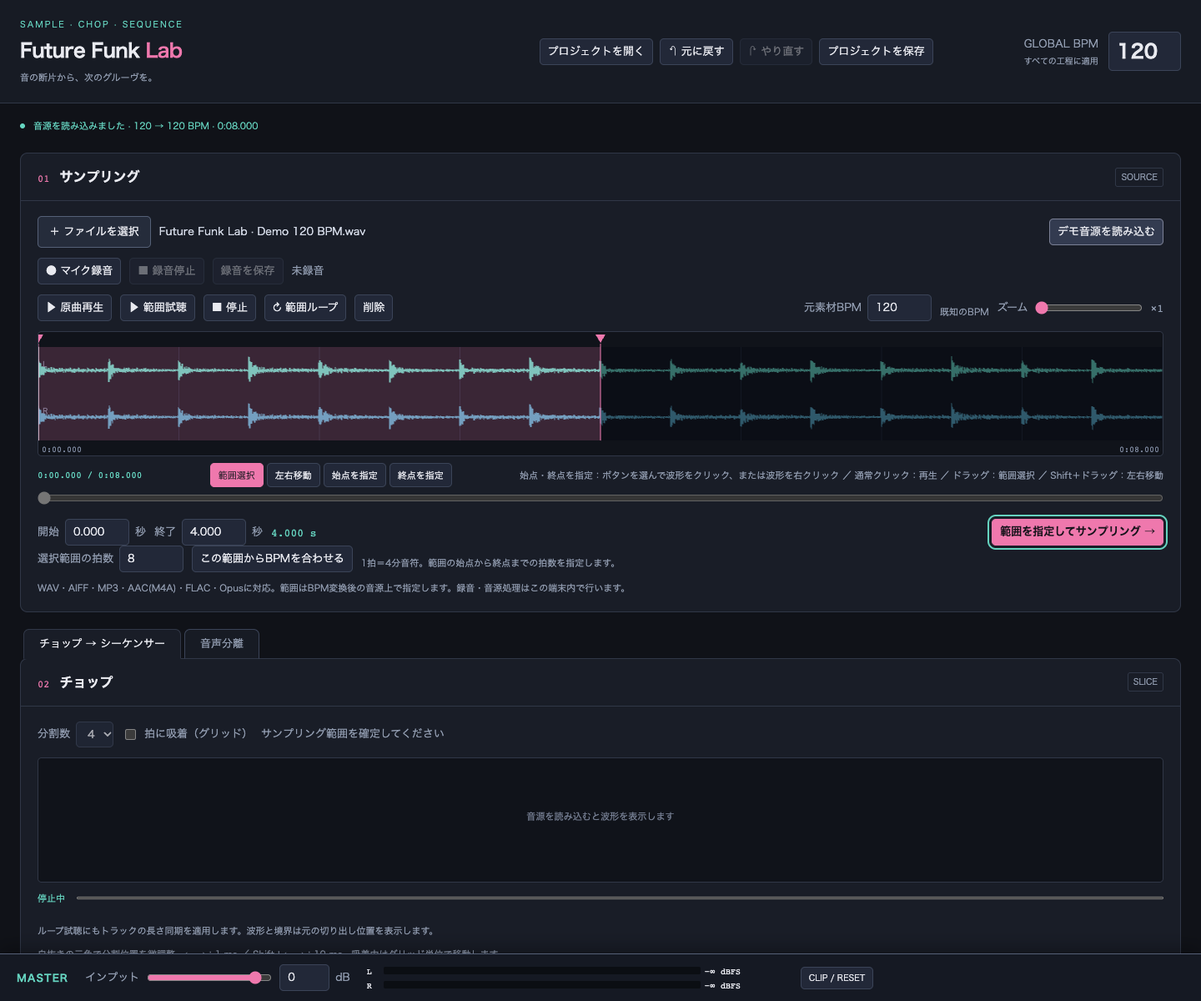
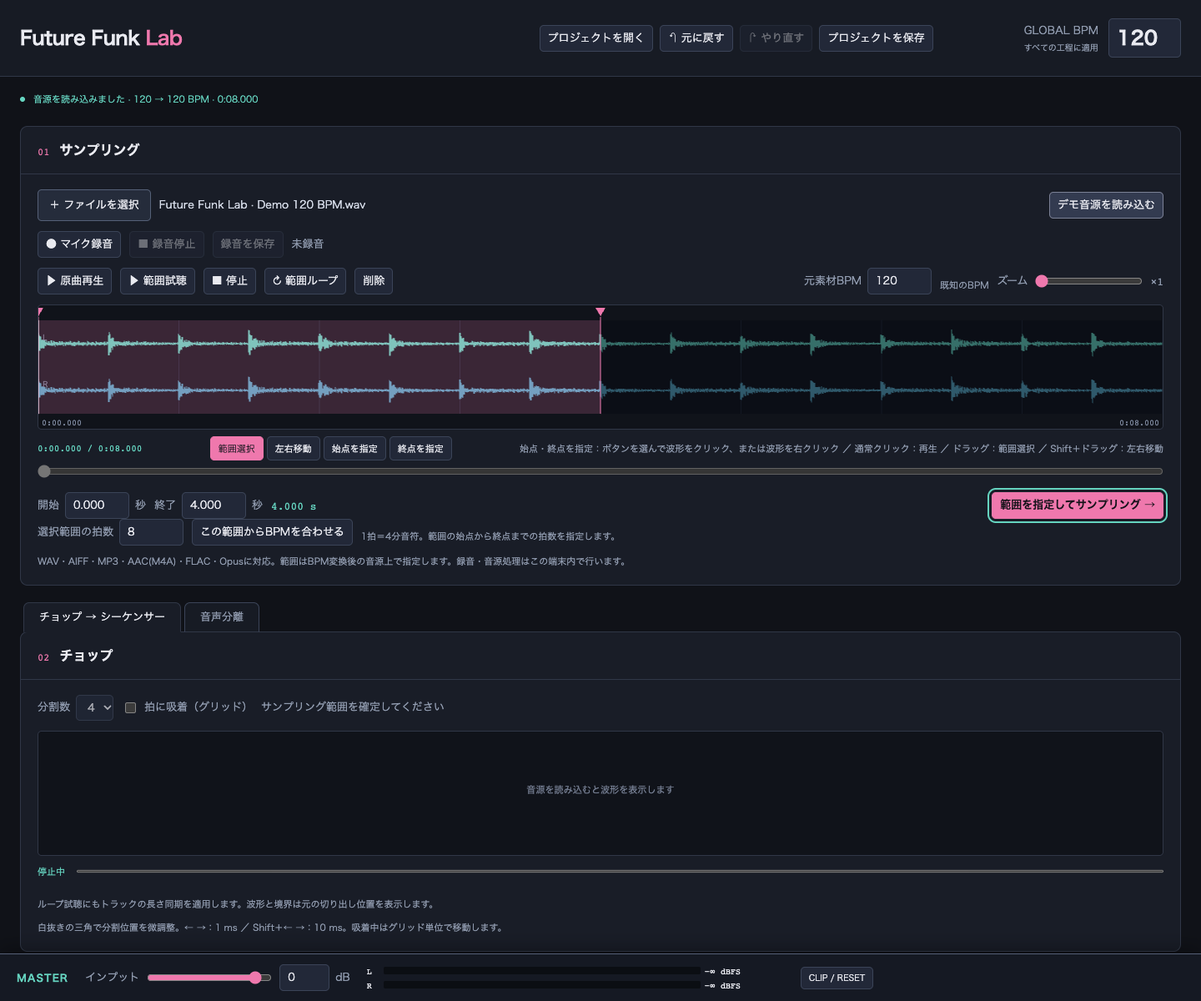
Remove text that is not needed to operate the app
Drops the tagline, the English eyebrow, the SOURCE/SLICE/MID + FILTER
and optional-feature badges, the VOCAL/BASS sublabels and the footer
description. The footer keeps the version and the source and license
links.

diff --git a/src/style.css b/src/style.css
@@ -1,4 +1,4 @@
-:root{color-scheme:dark;--bg:#101218;--panel:#191d27;--line:#303747;--text:#e9eaf0;--muted:#929db1;--pink:#ef78ad;--mint:#65d4c0;font-family:Inter,'Hiragino Kaku Gothic ProN','Noto Sans JP',system-ui,sans-serif;font-size:13px}*{box-sizing:border-box}body{margin:0;background:var(--bg);color:var(--text)}button,input,select{font:inherit}button,select,input[type=number],input[type=text]{border:1px solid #3b4458;border-radius:5px;background:#222838;color:var(--text);min-height:31px;padding:5px 9px}button{cursor:pointer;transition:background .12s,border-color .12s;white-space:nowrap}button:hover{background:#333b50;border-color:#7b8196}button:disabled{opacity:.4;cursor:default}button:focus-visible,input:focus-visible,select:focus-visible,canvas:focus-visible{outline:2px solid var(--mint);outline-offset:3px}button.active,button[aria-pressed=true]{color:#13151c;background:var(--pink);border-color:var(--pink)}button.primary{background:var(--pink);border-color:var(--pink);color:#17131b;font-weight:700}.secondary{color:var(--mint)}input[type=number]{width:77px;font-variant-numeric:tabular-nums}input[type=range]{accent-color:var(--pink);height:22px;min-width:50px;vertical-align:middle}input[type=checkbox]{accent-color:var(--pink)}label{display:inline-flex;align-items:center;gap:7px;color:var(--muted)}output,.mono{font-family:ui-monospace,SFMono-Regular,monospace;font-variant-numeric:tabular-nums}header{border-bottom:1px solid var(--line);background:#171b24;padding:22px max(24px,calc((100vw - 1400px)/2));display:flex;align-items:center;justify-content:space-between;gap:24px;position:sticky;top:0;z-index:5}h1{font-size:23px;letter-spacing:-.6px;margin:0}h1 span{color:var(--pink)}.eyebrow{color:var(--mint);font-size:10px;letter-spacing:2px;margin-bottom:6px}.subtitle{color:var(--muted);font-size:11px;margin-top:6px}.tempo{display:flex;align-items:center;gap:12px}.tempo input{width:87px;font-size:23px;min-height:46px;font-weight:700}.tempo small{display:block;color:var(--muted);font-size:10px;margin-top:3px}main{max-width:1450px;margin:auto;padding:24px}.section{background:var(--panel);border:1px solid var(--line);border-radius:9px;margin-bottom:20px;overflow:hidden}.section-head{padding:16px 20px;border-bottom:1px solid var(--line);display:flex;justify-content:space-between;align-items:center;gap:12px}.section-title{display:flex;align-items:baseline;gap:12px}.section-title h2{font-size:16px;margin:0}.section-number{font-family:monospace;color:var(--pink);font-size:12px}.badge{color:var(--muted);font-size:10px;border:1px solid var(--line);border-radius:3px;padding:3px 6px}.section-body{padding:18px 20px}.row{display:flex;align-items:center;gap:10px;flex-wrap:wrap}.row+.row{margin-top:12px}.grow{flex:1}.muted{color:var(--muted)}.hint{font-size:11px;color:var(--muted);line-height:1.7;margin:10px 0 0}.filename{overflow:hidden;text-overflow:ellipsis;white-space:nowrap;max-width:400px;color:#d6dce9}canvas.wave{display:block;width:100%;height:150px;border:1px solid var(--line);border-radius:5px;touch-action:none;margin-top:12px}.wave.small{height:100px}.range-display{display:flex;justify-content:space-between;align-items:center;gap:12px;flex-wrap:wrap;margin-top:12px}.range-display output{color:var(--mint)}.scroll-range{width:100%;margin:2px 0}.parts{display:grid;grid-template-columns:1fr 1fr;gap:18px}.part{border:1px solid var(--line);border-radius:6px;padding:15px;min-width:0}.part h3{font-size:14px;margin:0 0 13px}.part h3 span{color:var(--mint);font-size:10px;margin-left:8px}.filter-row{display:grid;grid-template-columns:65px 85px 90px 1fr;align-items:center;gap:8px;margin-top:10px}.filter-row input[type=range]{width:100%}.filter-row input[type=number]{width:88px}.filter-row label{font-size:11px}.part-time{display:flex;justify-content:space-between;font-size:10px;color:var(--muted);margin-top:6px}.chop-pads{display:flex;gap:8px;margin-top:12px}.chop-pad{flex:1;padding:10px 6px;min-width:0}.chop-pad strong{display:block;color:var(--mint);font:18px monospace}.chop-pad.active strong{color:#17131b}.chop-pad small{display:block;font:10px monospace;margin:6px 0}.chop-pad span{font-size:11px}.sequence-tools{padding:16px 20px;border-bottom:1px solid var(--line)}.eq-settings{padding:12px 20px;background:#151923;border-bottom:1px solid var(--line);font-size:11px}.eq-settings input{width:77px}.step-buttons{display:inline-flex;gap:4px}.step-buttons button{min-width:36px}.table-scroll{overflow:auto}.sequencer{min-width:1100px}.seq-header,.track-row{display:grid;grid-template-columns:145px 430px minmax(450px,1fr);gap:0}.seq-header{color:var(--muted);font-size:10px;letter-spacing:1px;background:#151923}.seq-header>div{padding:10px 12px;border-right:1px solid var(--line)}.track-row{border-top:1px solid var(--line);min-height:114px}.track-row>div{padding:11px 12px;border-right:1px solid var(--line)}.track-label{display:flex;align-items:center;justify-content:space-between;gap:8px}.track-label strong{font:12px monospace;color:var(--mint)}.track-label span{font:10px monospace;color:var(--muted)}.track-row canvas{height:53px;width:100%;display:block;margin-top:8px;background:#10131a;border-radius:3px}.edit-line{display:flex;gap:6px;align-items:center;margin-bottom:7px}.edit-line button{min-height:25px;font-size:10px;padding:3px 6px}.edit-line select{min-height:25px;font-size:10px;padding:3px}.edit-line input[type=number]{width:58px;font-size:11px;min-height:25px;padding:3px}.edit-line label{font-size:10px;gap:4px}.edit-line input[type=range]{width:65px}.edit-line output{font-size:10px;min-width:33px}.eq-label{color:var(--muted);font-size:9px}.steps{display:grid;gap:3px;align-items:stretch;height:80px;margin:6px 0}.step{padding:0;min-width:0;border-radius:3px;border:1px solid #343d51;background:#242b3b;min-height:60px;position:relative;font-size:9px;color:#7e8ba1}.step span{position:absolute;bottom:5px;left:0;right:0}.step:nth-child(4n+1){border-left:2px solid #7e8ba1}.step.active{background:#e974aa;border-color:#e974aa;color:#43263a}.step.playhead{box-shadow:inset 0 0 0 2px #fff}.step.playhead:before{content:'';position:absolute;top:5px;left:50%;width:4px;height:4px;background:#fff;border-radius:50%}.empty{opacity:.4}.master{padding:18px 20px;display:flex;align-items:center;gap:22px;flex-wrap:wrap;background:#151923;border-top:1px solid var(--line)}.master strong{font-size:12px;color:var(--mint);letter-spacing:1px}.meters{flex:1;min-width:220px;max-width:500px;display:grid;grid-template-columns:15px 1fr 95px;gap:5px;align-items:center;font:10px monospace}.meter{height:9px;background:#0b0e13;position:relative;border-radius:2px;overflow:hidden}.meter-fill{height:100%;width:0;background:linear-gradient(90deg,#51bba7 0%,#b1d475 76%,#f2c969 88%,#ef78ad 100%)}.clip{font-size:10px;min-height:26px}.clip.clipped{background:#ff5a73;color:#101218}.status{max-width:1450px;margin:auto;padding:18px 24px 0;display:flex;gap:10px;align-items:center;color:var(--muted);font-size:11px}.status-dot{width:6px;height:6px;border-radius:50%;background:var(--mint)}#status.error{color:#ff91aa}#status.busy{color:var(--mint)}footer{padding:0 24px 24px;text-align:center;color:#758097;font-size:10px}.hidden{display:none!important}.file-label{cursor:pointer;border:1px solid #556077;background:#252c3b;padding:8px 13px;border-radius:5px;color:var(--text)}.recording{animation:pulse 1s infinite;color:#ff8497}@keyframes pulse{50%{opacity:.45}}@media(max-width:900px){header{padding:16px;position:static}main{padding:14px}.parts{grid-template-columns:1fr}.section-body{padding:14px}.section-title{gap:8px}.subtitle{max-width:220px}.filter-row{grid-template-columns:65px 80px 85px 1fr}.tempo{gap:6px}.tempo input{width:75px}h1{font-size:19px}.chop-pads{flex-wrap:wrap}.chop-pad{min-width:65px}.filename{max-width:200px}}@media(prefers-reduced-motion:reduce){*{animation:none!important;transition:none!important}}
+:root{color-scheme:dark;--bg:#101218;--panel:#191d27;--line:#303747;--text:#e9eaf0;--muted:#929db1;--pink:#ef78ad;--mint:#65d4c0;font-family:Inter,'Hiragino Kaku Gothic ProN','Noto Sans JP',system-ui,sans-serif;font-size:13px}*{box-sizing:border-box}body{margin:0;background:var(--bg);color:var(--text)}button,input,select{font:inherit}button,select,input[type=number],input[type=text]{border:1px solid #3b4458;border-radius:5px;background:#222838;color:var(--text);min-height:31px;padding:5px 9px}button{cursor:pointer;transition:background .12s,border-color .12s;white-space:nowrap}button:hover{background:#333b50;border-color:#7b8196}button:disabled{opacity:.4;cursor:default}button:focus-visible,input:focus-visible,select:focus-visible,canvas:focus-visible{outline:2px solid var(--mint);outline-offset:3px}button.active,button[aria-pressed=true]{color:#13151c;background:var(--pink);border-color:var(--pink)}button.primary{background:var(--pink);border-color:var(--pink);color:#17131b;font-weight:700}.secondary{color:var(--mint)}input[type=number]{width:77px;font-variant-numeric:tabular-nums}input[type=range]{accent-color:var(--pink);height:22px;min-width:50px;vertical-align:middle}input[type=checkbox]{accent-color:var(--pink)}label{display:inline-flex;align-items:center;gap:7px;color:var(--muted)}output,.mono{font-family:ui-monospace,SFMono-Regular,monospace;font-variant-numeric:tabular-nums}header{border-bottom:1px solid var(--line);background:#171b24;padding:22px max(24px,calc((100vw - 1400px)/2));display:flex;align-items:center;justify-content:space-between;gap:24px;position:sticky;top:0;z-index:5}h1{font-size:23px;letter-spacing:-.6px;margin:0}h1 span{color:var(--pink)}.tempo{display:flex;align-items:center;gap:12px}.tempo input{width:87px;font-size:23px;min-height:46px;font-weight:700}.tempo small{display:block;color:var(--muted);font-size:10px;margin-top:3px}main{max-width:1450px;margin:auto;padding:24px}.section{background:var(--panel);border:1px solid var(--line);border-radius:9px;margin-bottom:20px;overflow:hidden}.section-head{padding:16px 20px;border-bottom:1px solid var(--line);display:flex;justify-content:space-between;align-items:center;gap:12px}.section-title{display:flex;align-items:baseline;gap:12px}.section-title h2{font-size:16px;margin:0}.section-number{font-family:monospace;color:var(--pink);font-size:12px}.badge{color:var(--muted);font-size:10px;border:1px solid var(--line);border-radius:3px;padding:3px 6px}.section-body{padding:18px 20px}.row{display:flex;align-items:center;gap:10px;flex-wrap:wrap}.row+.row{margin-top:12px}.grow{flex:1}.muted{color:var(--muted)}.hint{font-size:11px;color:var(--muted);line-height:1.7;margin:10px 0 0}.filename{overflow:hidden;text-overflow:ellipsis;white-space:nowrap;max-width:400px;color:#d6dce9}canvas.wave{display:block;width:100%;height:150px;border:1px solid var(--line);border-radius:5px;touch-action:none;margin-top:12px}.wave.small{height:100px}.range-display{display:flex;justify-content:space-between;align-items:center;gap:12px;flex-wrap:wrap;margin-top:12px}.range-display output{color:var(--mint)}.scroll-range{width:100%;margin:2px 0}.parts{display:grid;grid-template-columns:1fr 1fr;gap:18px}.part{border:1px solid var(--line);border-radius:6px;padding:15px;min-width:0}.part h3{font-size:14px;margin:0 0 13px}.filter-row{display:grid;grid-template-columns:65px 85px 90px 1fr;align-items:center;gap:8px;margin-top:10px}.filter-row input[type=range]{width:100%}.filter-row input[type=number]{width:88px}.filter-row label{font-size:11px}.part-time{display:flex;justify-content:space-between;font-size:10px;color:var(--muted);margin-top:6px}.chop-pads{display:flex;gap:8px;margin-top:12px}.chop-pad{flex:1;padding:10px 6px;min-width:0}.chop-pad strong{display:block;color:var(--mint);font:18px monospace}.chop-pad.active strong{color:#17131b}.chop-pad small{display:block;font:10px monospace;margin:6px 0}.chop-pad span{font-size:11px}.sequence-tools{padding:16px 20px;border-bottom:1px solid var(--line)}.eq-settings{padding:12px 20px;background:#151923;border-bottom:1px solid var(--line);font-size:11px}.eq-settings input{width:77px}.step-buttons{display:inline-flex;gap:4px}.step-buttons button{min-width:36px}.table-scroll{overflow:auto}.sequencer{min-width:1100px}.seq-header,.track-row{display:grid;grid-template-columns:145px 430px minmax(450px,1fr);gap:0}.seq-header{color:var(--muted);font-size:10px;letter-spacing:1px;background:#151923}.seq-header>div{padding:10px 12px;border-right:1px solid var(--line)}.track-row{border-top:1px solid var(--line);min-height:114px}.track-row>div{padding:11px 12px;border-right:1px solid var(--line)}.track-label{display:flex;align-items:center;justify-content:space-between;gap:8px}.track-label strong{font:12px monospace;color:var(--mint)}.track-label span{font:10px monospace;color:var(--muted)}.track-row canvas{height:53px;width:100%;display:block;margin-top:8px;background:#10131a;border-radius:3px}.edit-line{display:flex;gap:6px;align-items:center;margin-bottom:7px}.edit-line button{min-height:25px;font-size:10px;padding:3px 6px}.edit-line select{min-height:25px;font-size:10px;padding:3px}.edit-line input[type=number]{width:58px;font-size:11px;min-height:25px;padding:3px}.edit-line label{font-size:10px;gap:4px}.edit-line input[type=range]{width:65px}.edit-line output{font-size:10px;min-width:33px}.eq-label{color:var(--muted);font-size:9px}.steps{display:grid;gap:3px;align-items:stretch;height:80px;margin:6px 0}.step{padding:0;min-width:0;border-radius:3px;border:1px solid #343d51;background:#242b3b;min-height:60px;position:relative;font-size:9px;color:#7e8ba1}.step span{position:absolute;bottom:5px;left:0;right:0}.step:nth-child(4n+1){border-left:2px solid #7e8ba1}.step.active{background:#e974aa;border-color:#e974aa;color:#43263a}.step.playhead{box-shadow:inset 0 0 0 2px #fff}.step.playhead:before{content:'';position:absolute;top:5px;left:50%;width:4px;height:4px;background:#fff;border-radius:50%}.empty{opacity:.4}.master{padding:18px 20px;display:flex;align-items:center;gap:22px;flex-wrap:wrap;background:#151923;border-top:1px solid var(--line)}.master strong{font-size:12px;color:var(--mint);letter-spacing:1px}.meters{flex:1;min-width:220px;max-width:500px;display:grid;grid-template-columns:15px 1fr 95px;gap:5px;align-items:center;font:10px monospace}.meter{height:9px;background:#0b0e13;position:relative;border-radius:2px;overflow:hidden}.meter-fill{height:100%;width:0;background:linear-gradient(90deg,#51bba7 0%,#b1d475 76%,#f2c969 88%,#ef78ad 100%)}.clip{font-size:10px;min-height:26px}.clip.clipped{background:#ff5a73;color:#101218}.status{max-width:1450px;margin:auto;padding:18px 24px 0;display:flex;gap:10px;align-items:center;color:var(--muted);font-size:11px}.status-dot{width:6px;height:6px;border-radius:50%;background:var(--mint)}#status.error{color:#ff91aa}#status.busy{color:var(--mint)}footer{padding:0 24px 24px;text-align:center;color:#758097;font-size:10px}.hidden{display:none!important}.file-label{cursor:pointer;border:1px solid #556077;background:#252c3b;padding:8px 13px;border-radius:5px;color:var(--text)}.recording{animation:pulse 1s infinite;color:#ff8497}@keyframes pulse{50%{opacity:.45}}@media(max-width:900px){header{padding:16px;position:static}main{padding:14px}.parts{grid-template-columns:1fr}.section-body{padding:14px}.section-title{gap:8px}.filter-row{grid-template-columns:65px 80px 85px 1fr}.tempo{gap:6px}.tempo input{width:75px}h1{font-size:19px}.chop-pads{flex-wrap:wrap}.chop-pad{min-width:65px}.filename{max-width:200px}}@media(prefers-reduced-motion:reduce){*{animation:none!important;transition:none!important}}
 
 .edit-line input[data-track-eq]{width:58px}
 

diff --git a/index.html b/index.html
@@ -1,14 +1,14 @@
 <!doctype html>
 <html lang="ja"><head><meta charset="UTF-8"><meta name="viewport" content="width=device-width, initial-scale=1"><title>Future Funk Lab — Sampler & Sequencer</title><meta name="description" content="音源を切り出し、チョップし、8トラックで組み立てるブラウザサンプラー。音源は端末内で処理します。"><style>/* APP_CSS */</style></head>
 <body>
-<header><div><div class="eyebrow">SAMPLE · CHOP · SEQUENCE</div><h1>Future Funk <span>Lab</span></h1><div class="subtitle">音の断片から、次のグルーヴを。</div></div><div class="header-tools"><div class="project-tools" role="group" aria-label="プロジェクト"><button id="project-open">プロジェクトを開く</button><input id="project-file" type="file" accept=".json,application/json,audio/*,.wav,.aif,.aiff,.mp3,.m4a,.aac,.flac,.ogg,.opus,.webm" multiple class="hidden"><button id="undo" disabled title="⌘Z / Ctrl+Z">↶ 元に戻す</button><button id="redo" disabled title="⇧⌘Z / Ctrl+Y">↷ やり直す</button><button id="project-save" data-needs-source title="⌘S / Ctrl+S">プロジェクトを保存</button><span id="project-dirty" class="dirty" aria-live="polite"></span></div><div class="tempo"><div><label for="global-bpm">GLOBAL BPM</label><small>すべての工程に適用</small></div><input id="global-bpm" type="number" min="30" max="300" step="0.001" value="120" aria-label="グローバルBPM"></div></div></header>
+<header><div><h1>Future Funk <span>Lab</span></h1></div><div class="header-tools"><div class="project-tools" role="group" aria-label="プロジェクト"><button id="project-open">プロジェクトを開く</button><input id="project-file" type="file" accept=".json,application/json,audio/*,.wav,.aif,.aiff,.mp3,.m4a,.aac,.flac,.ogg,.opus,.webm" multiple class="hidden"><button id="undo" disabled title="⌘Z / Ctrl+Z">↶ 元に戻す</button><button id="redo" disabled title="⇧⌘Z / Ctrl+Y">↷ やり直す</button><button id="project-save" data-needs-source title="⌘S / Ctrl+S">プロジェクトを保存</button><span id="project-dirty" class="dirty" aria-live="polite"></span></div><div class="tempo"><div><label for="global-bpm">GLOBAL BPM</label><small>すべての工程に適用</small></div><input id="global-bpm" type="number" min="30" max="300" step="0.001" value="120" aria-label="グローバルBPM"></div></div></header>
 <div class="status" role="status" aria-live="polite"><span class="status-dot"></span><span id="status">準備完了。音源を選択するか、デモ音源で始めてください。</span></div>
 <div id="autosave-banner" class="autosave-banner hidden" role="region" aria-label="自動保存の復元"><span id="autosave-text"></span><button id="autosave-restore" class="primary">復元する</button><button id="autosave-discard">破棄する</button></div>
 <div id="replace-confirm" class="autosave-banner hidden" role="alertdialog" aria-label="作業の置き換えの確認"><span>今の作業には未保存の変更があります。置き換えますか？</span><button id="replace-save" class="primary">保存してから置き換える</button><button id="replace-yes">置き換える</button><button id="replace-no">やめる</button></div>
 <div id="drop-overlay" class="drop-overlay hidden" aria-hidden="true"><div>ここで離すと読み込みます<small>曲 / プロジェクト（.json）</small></div></div>
 <div id="project-source" class="autosave-banner hidden" role="region" aria-label="元の曲の選択"><span id="project-source-text"></span><button id="project-source-pick" class="primary">曲を選ぶ</button><input id="project-source-file" type="file" accept="audio/*,.wav,.aif,.aiff,.mp3,.m4a,.aac,.flac,.ogg,.opus,.webm" class="hidden"><button id="project-source-cancel">やめる</button></div>
 <main>
-<section class="section" id="sampling"><div class="section-head"><div class="section-title"><span class="section-number">01</span><h2>サンプリング</h2></div><span class="badge">SOURCE</span></div><div class="section-body">
+<section class="section" id="sampling"><div class="section-head"><div class="section-title"><span class="section-number">01</span><h2>サンプリング</h2></div></div><div class="section-body">
 <div class="row"><label class="file-label" for="source-file">＋ ファイルを選択</label><input id="source-file" type="file" accept="audio/*,.wav,.aif,.aiff,.mp3,.m4a,.aac,.flac,.ogg,.opus,.webm" class="hidden"><span class="filename" id="source-name">音源が選択されていません</span><div class="grow"></div><button id="demo">デモ音源を読み込む</button></div>
 <div class="row"><button id="record">● マイク録音</button><button id="record-stop" disabled>■ 録音停止</button><button id="record-save" disabled>録音を保存</button><span id="record-name" class="muted">未録音</span></div>
 <div class="row"><button id="source-play" data-needs-source aria-pressed="false">▶ 原曲再生</button><button id="source-range-play" data-needs-source aria-pressed="false">▶ 範囲試聴</button><button id="source-stop" data-needs-source>■ 停止</button><button id="source-loop" aria-pressed="false">↻ 範囲ループ</button><button id="source-delete" data-needs-source>削除</button><div class="grow"></div><label>元素材BPM <input id="source-bpm" type="number" min="30" max="300" step="0.001" value="120"></label><span id="bpm-confidence" class="hint"></span><label>ズーム <input id="zoom" type="range" min="1" max="100" value="1"><output id="zoom-value">×1</output></label></div>
@@ -18,7 +18,7 @@
 </div></section>
 <div class="section-tabs" role="tablist" aria-label="作業"><button id="tab-chop" role="tab" aria-selected="true" aria-controls="panel-chop">チョップ → シーケンサー</button><button id="tab-separation" role="tab" aria-selected="false" aria-controls="panel-separation" tabindex="-1">音声分離</button></div>
 <div id="panel-chop" role="tabpanel" aria-labelledby="tab-chop">
-<section class="section" id="chop"><div class="section-head"><div class="section-title"><span class="section-number">02</span><h2>チョップ</h2></div><span class="badge">SLICE</span></div><div class="section-body"><div class="row"><label>分割数 <select id="chop-count"><option>2</option><option>3</option><option selected>4</option><option>5</option><option>6</option><option>7</option><option>8</option></select></label><label><input id="snap" type="checkbox">拍に吸着（グリッド）</label><span id="chop-info" class="muted">サンプリング範囲を確定してください</span></div><canvas id="chop-wave" class="wave" tabindex="0" aria-label="チョップ波形。内部マーカーをドラッグ、左右キーで1ms、Shift併用で10ms移動"></canvas><div class="chop-playback"><output id="chop-position" class="mono" aria-live="off">停止中</output><progress id="chop-progress" max="1" value="0" aria-label="チョップ試聴の区間内再生位置"></progress></div><div id="chop-pads" class="chop-pads"></div><p class="hint">ループ試聴にもトラックの長さ同期を適用します。波形と境界は元の切り出し位置を表示します。</p><p class="hint">白抜きの三角で分割位置を微調整。← →：1 ms ／ Shift＋← →：10 ms。吸着中はグリッド単位で移動します。</p></div></section>
+<section class="section" id="chop"><div class="section-head"><div class="section-title"><span class="section-number">02</span><h2>チョップ</h2></div></div><div class="section-body"><div class="row"><label>分割数 <select id="chop-count"><option>2</option><option>3</option><option selected>4</option><option>5</option><option>6</option><option>7</option><option>8</option></select></label><label><input id="snap" type="checkbox">拍に吸着（グリッド）</label><span id="chop-info" class="muted">サンプリング範囲を確定してください</span></div><canvas id="chop-wave" class="wave" tabindex="0" aria-label="チョップ波形。内部マーカーをドラッグ、左右キーで1ms、Shift併用で10ms移動"></canvas><div class="chop-playback"><output id="chop-position" class="mono" aria-live="off">停止中</output><progress id="chop-progress" max="1" value="0" aria-label="チョップ試聴の区間内再生位置"></progress></div><div id="chop-pads" class="chop-pads"></div><p class="hint">ループ試聴にもトラックの長さ同期を適用します。波形と境界は元の切り出し位置を表示します。</p><p class="hint">白抜きの三角で分割位置を微調整。← →：1 ms ／ Shift＋← →：10 ms。吸着中はグリッド単位で移動します。</p></div></section>
 <section class="section" id="sequence"><div class="section-head"><div class="section-title"><span class="section-number">03</span><h2>シーケンサー</h2></div><div class="row"><div class="view-toggle" role="group" aria-label="表示"><span class="muted">表示</span><button id="view-compact" aria-pressed="true">コンパクト</button><button id="view-detail" aria-pressed="false">詳細</button></div><span id="signature" class="badge">16/8</span></div></div>
 <div class="sequence-tools"><div class="row"><span class="mono"><span id="sequence-bpm">120</span> BPM</span><span id="pattern-length" class="muted mono">1ステップ 0.250 s / 1周 4.000 s</span><button id="seq-play" class="primary" data-needs-chop title="Space">▶ 再生</button><button id="seq-stop">■ 停止</button><button id="seq-rewind" aria-label="先頭へ戻る">⏮</button><button id="seq-loop" aria-pressed="true">↻ ループ</button><label title="選んでいるグリッドの裏のステップを遅らせます。50%でずれなし">スウィング <input id="swing" type="number" min="50" max="75" step="1" value="50" aria-label="スウィング %">%</label><output id="transport-time">0:00.000</output><div class="grow"></div><select id="export-target" aria-label="書き出す内容"><option value="mix">ミックス</option><option value="stems">トラック別</option></select><select id="export-channels" aria-label="書き出しチャンネル"><option value="2">ステレオ</option><option value="1">モノ</option></select><select id="export-format" aria-label="書き出し形式"><option value="wav">WAV</option><option value="mp3">MP3</option></select><button id="export" data-needs-chop>↓ 書き出し</button></div></div>
 <div class="eq-settings row"><span>EQ共通設定</span><label>LOW | MID <input id="eq-low" type="number" min="200" max="500" value="300">Hz</label><label>MID | HI <input id="eq-high" type="number" min="2000" max="4000" value="3000">Hz</label><label>勾配 <select id="eq-slope"><option value="6">−6 dB/oct</option><option value="12" selected>−12 dB/oct</option><option value="24">−24 dB/oct</option></select></label><div class="grow"></div><span>グリッド</span><div class="step-buttons" role="group" aria-label="グリッド"><button id="grid-8" aria-pressed="true">8分</button><button id="grid-16" aria-pressed="false">16分</button></div><span>ステップ数</span><div id="step-buttons" class="step-buttons"></div></div>
@@ -27,8 +27,8 @@
 </section>
 </div>
 <div id="panel-separation" role="tabpanel" aria-labelledby="tab-separation" class="hidden">
-<section class="section" id="separation"><div class="section-head"><div class="section-title"><h2>音声分離</h2><span class="badge">オプション機能</span></div><span class="muted">MID + FILTER</span></div><div class="section-body"><div class="parts" id="parts"></div><p class="hint">簡易分離：センター成分にフィルターをかけます。他の楽器も混ざります。分離音源は書き出し専用で、チョップには引き継ぎません。</p></div></section>
+<section class="section" id="separation"><div class="section-head"><div class="section-title"><h2>音声分離</h2></div></div><div class="section-body"><div class="parts" id="parts"></div><p class="hint">簡易分離：センター成分にフィルターをかけます。他の楽器も混ざります。分離音源は書き出し専用で、チョップには引き継ぎません。</p></div></section>
 </div>
 </main><div class="master" id="master-strip" role="region" aria-label="マスタートラック"><strong>MASTER</strong><label>インプット <input id="master" type="range" min="-60" max="6" step="0.5" value="0"><input id="master-number" type="text" value="0" aria-label="マスターゲイン dB" style="width:60px"><span>dB</span></label><div class="meters"><span>L</span><div class="meter"><div class="meter-fill" id="meter-l"></div></div><output id="peak-l">−∞ dBFS</output><span>R</span><div class="meter"><div class="meter-fill" id="meter-r"></div></div><output id="peak-r">−∞ dBFS</output></div><button id="clip-reset" class="clip">CLIP / RESET</button></div>
-<footer>Future Funk Lab /* APP_VERSION */ · 音源は外部に送信されません · 1ステップ＝8分または16分音符 · 書き出しはパターン1周分（ミックスまたはトラック別） · <a href="https://github.com/masa-san-jp/Future-Funk-Lab">ソース</a> · <a href="./THIRD_PARTY_NOTICES.md">ライセンス</a></footer>
+<footer>Future Funk Lab /* APP_VERSION */ · <a href="https://github.com/masa-san-jp/Future-Funk-Lab">ソース</a> · <a href="./THIRD_PARTY_NOTICES.md">ライセンス</a></footer>
 <script>/* APP_JS */</script></body></html>

diff --git a/src/app.js b/src/app.js
@@ -220,7 +220,7 @@ function updateChopPlayback(){
 }
 function stopChopPreview(){for(const key of [...engine.preview.keys()])if(key.startsWith('pad-'))engine.stopPreview(key);}
 function buildParts(){
-  $('parts').innerHTML=state.parts.map((p,i)=>`<article class="part"><h3>${p.name}<span>${p.key.toUpperCase()}</span></h3><div class="row"><button data-part-play="${i}" data-preview="part-${i}" aria-pressed="false">▶ 再生</button><button data-part-stop="${i}">■ 停止</button><div class="grow"></div><select id="part-format-${i}" aria-label="${p.name}の書き出し形式"><option value="wav">WAV</option><option value="mp3">MP3</option></select><button data-part-export="${i}">↓ 書き出し</button></div>${['hp','lp'].map(type=>`<div class="filter-row"><label><input type="checkbox" data-part="${i}" data-filter="${type}" data-param="on" ${p[type].on?'checked':''}>${type==='hp'?'HPF':'LPF'}</label><select data-part="${i}" data-filter="${type}" data-param="slope" aria-label="${p.name}${type}勾配">${[6,12,24].map(n=>`<option value="${n}" ${n===p[type].slope?'selected':''}>−${n} dB/oct</option>`).join('')}</select><input type="number" data-part="${i}" data-filter="${type}" data-param="freq" min="${type==='hp'?50:200}" max="${type==='hp'?2000:8000}" value="${p[type].freq}" aria-label="${p.name}${type}カットオフ Hz"><input type="range" data-part="${i}" data-filter="${type}" data-param="freq" min="${type==='hp'?50:200}" max="${type==='hp'?2000:8000}" value="${p[type].freq}" aria-label="${p.name}${type}周波数スライダー"></div>`).join('')}<canvas id="part-wave-${i}" class="wave small" tabindex="0" aria-label="${p.name}の波形。クリックでシーク"></canvas><div class="part-time"><span id="part-time-${i}">0:00.000 / 0:00.000</span><span>Hz · クリックでシーク</span></div><input id="part-seek-${i}" type="range" min="0" max="1" step="0.001" value="0" aria-label="${p.name}の再生位置" style="width:100%"></article>`).join('');
+  $('parts').innerHTML=state.parts.map((p,i)=>`<article class="part"><h3>${p.name}</h3><div class="row"><button data-part-play="${i}" data-preview="part-${i}" aria-pressed="false">▶ 再生</button><button data-part-stop="${i}">■ 停止</button><div class="grow"></div><select id="part-format-${i}" aria-label="${p.name}の書き出し形式"><option value="wav">WAV</option><option value="mp3">MP3</option></select><button data-part-export="${i}">↓ 書き出し</button></div>${['hp','lp'].map(type=>`<div class="filter-row"><label><input type="checkbox" data-part="${i}" data-filter="${type}" data-param="on" ${p[type].on?'checked':''}>${type==='hp'?'HPF':'LPF'}</label><select data-part="${i}" data-filter="${type}" data-param="slope" aria-label="${p.name}${type}勾配">${[6,12,24].map(n=>`<option value="${n}" ${n===p[type].slope?'selected':''}>−${n} dB/oct</option>`).join('')}</select><input type="number" data-part="${i}" data-filter="${type}" data-param="freq" min="${type==='hp'?50:200}" max="${type==='hp'?2000:8000}" value="${p[type].freq}" aria-label="${p.name}${type}カットオフ Hz"><input type="range" data-part="${i}" data-filter="${type}" data-param="freq" min="${type==='hp'?50:200}" max="${type==='hp'?2000:8000}" value="${p[type].freq}" aria-label="${p.name}${type}周波数スライダー"></div>`).join('')}<canvas id="part-wave-${i}" class="wave small" tabindex="0" aria-label="${p.name}の波形。クリックでシーク"></canvas><div class="part-time"><span id="part-time-${i}">0:00.000 / 0:00.000</span><span>Hz · クリックでシーク</span></div><input id="part-seek-${i}" type="range" min="0" max="1" step="0.001" value="0" aria-label="${p.name}の再生位置" style="width:100%"></article>`).join('');
   state.parts.forEach((_,i)=>{partWaves[i]=new Waveform($(`part-wave-${i}`),{onSeek:time=>seekPart(i,time)});bind(`part-seek-${i}`,'input',()=>seekPart(i,Number($(`part-seek-${i}`).value)*duration()));});
   document.querySelectorAll('[data-part-play]').forEach(b=>b.addEventListener('click',guarded(()=>playPart(Number(b.dataset.partPlay)))));
   document.querySelectorAll('[data-part-stop]').forEach(b=>b.addEventListener('click',()=>engine.stopPreview(`part-${b.dataset.partStop}`)));

diff --git a/docs/20261018-future-funk-lab-sampling-spec-draft.md b/docs/20261018-future-funk-lab-sampling-spec-draft.md
@@ -106,7 +106,7 @@
 
 ### 6.2 画面構成
 
-「音声分離」の見出し(横に「オプション機能」の表示)の下に、パートごとのブロックを置く。ブロックは次の順で構成する。
+「音声分離」の見出しの下に、（2026-10-29：見出し横の「オプション機能」の表示は外した）パートごとのブロックを置く。ブロックは次の順で構成する。
 
 | パート | 内容 |
 |---|---|
@@ -379,6 +379,7 @@
 | EQ | 3バンド。0〜-∞のカットのみ。クロスオーバー(LOW|MID 200〜500Hz、MID|HI 2000〜4000Hz)と勾配(-6/-12/-24)は全トラック共通 |
 | トラックの出力ボリューム | 初期値0 dB、-∞〜+6 dB |
 | マスターチャンネル | 全出力が流れる。インプットレベル(初期値0 dB、-∞〜+6 dB)とピークメーターを設ける |
+| 画面の表記（2026-10-29） | 操作に必要な表記だけを残す。キャッチコピー・英字の飾り見出し・SOURCE/SLICE/オプション機能/MID + FILTER/VOCAL/BASSの表示・フッターの説明文は外し、フッターは版・ソース・ライセンスだけにする |
 | 作業のタブ（2026-10-29、#15） | 01 サンプリングの下を［チョップ → シーケンサー］［音声分離］のタブで切り替える。番号は 01 サンプリング・02 チョップ・03 シーケンサー。切り替えても再生は止めない |
 | 元に戻す／やり直す（2026-10-28、#9） | ⌘Z／⇧⌘Z（Ctrl+Z／Ctrl+Y）とヘッダーのボタンで、プロジェクトに保存される設定を最大100回まで戻せる。書き出しの設定と表示は対象外。曲の読み込み・プロジェクトを開くと履歴は消える |
 | スペースキー（2026-10-28、#9） | 入力欄にいないときはSpaceで再生/停止（チョップ後はシーケンサー、前は原曲）。ボタンにフォーカスがあってもSpaceではボタンを押さず、Enterで押す |
